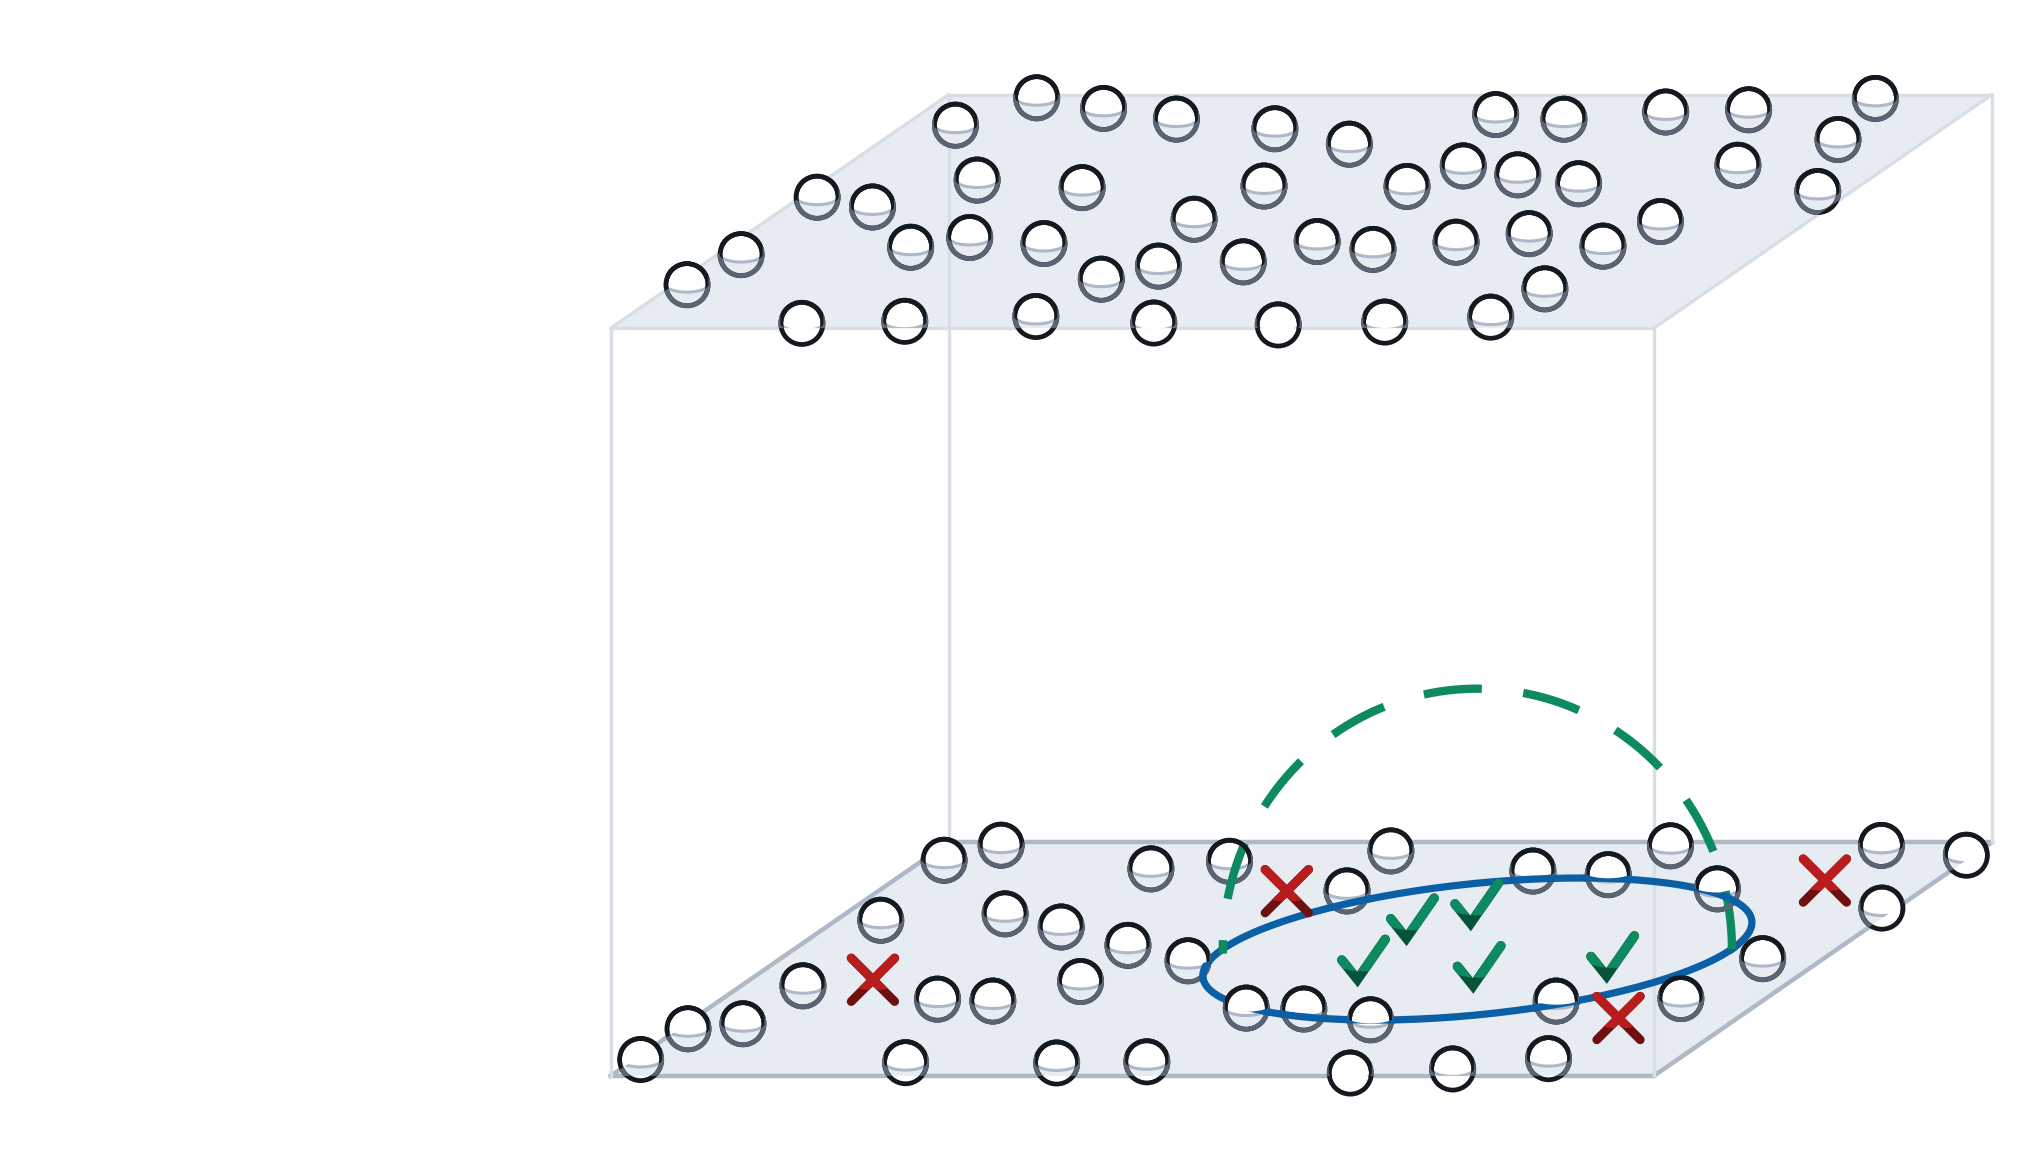
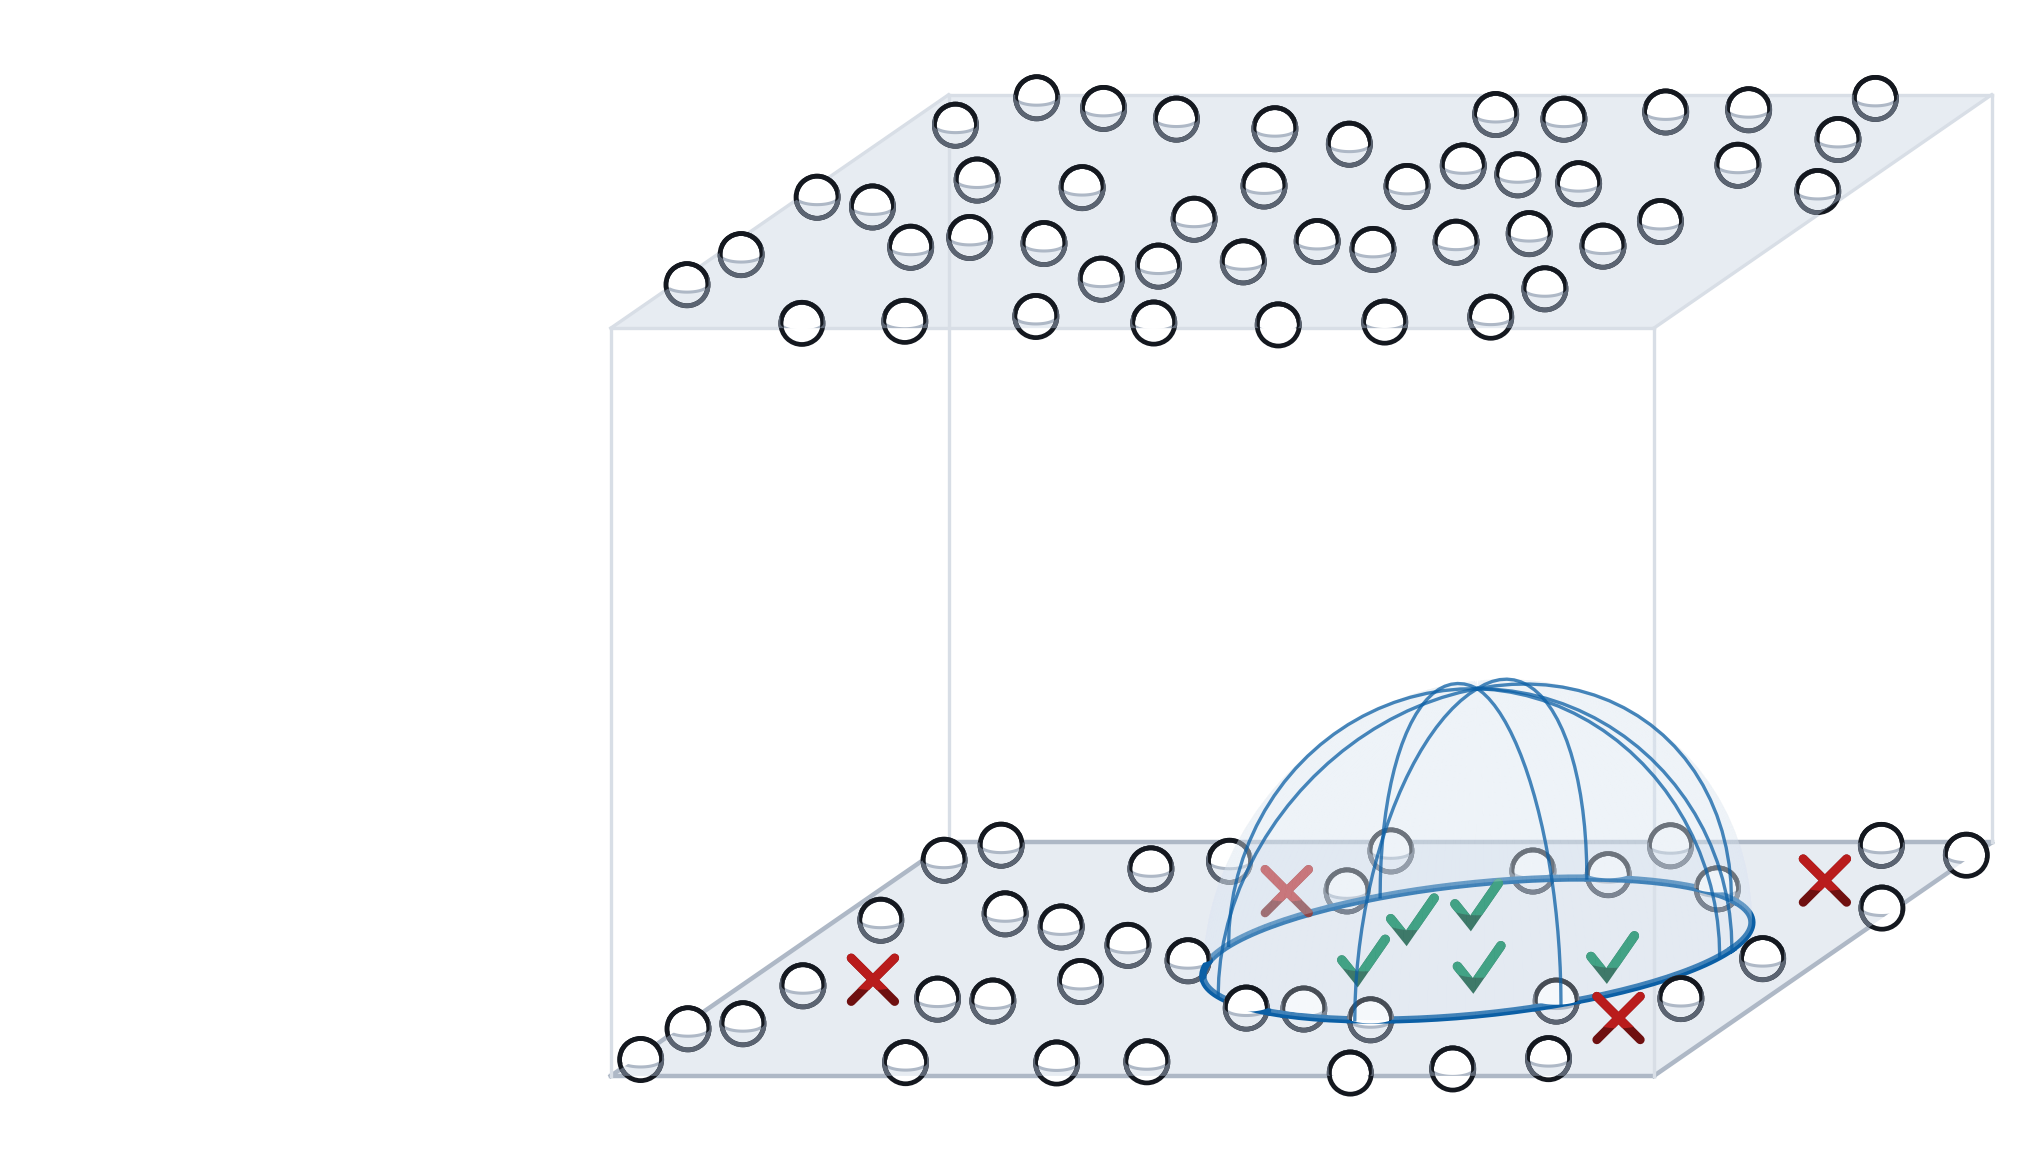
slides: draw the dome as an alternative pillar, and put the plane's markings under everything standing above it
Two things the last pass got wrong, and they turn out to be the same
thing seen from either side of the floor.

The dome was a lone dashed green arc while the tube was glass with ribs,
so the two frames were not comparable — which is the only reason to have
split them. It is now built exactly as `_tube` is: gores instead of wall
quads so near and far surfaces overlap and the compositor does the one-
and two-layer tinting itself, the same BLUE ribs at the same width and
alpha, and an `_occluded_by_dome` ray test beside the pillar's so the
items standing inside it are shaded like the items inside the tube.

And the boundary curve was painted over the bright halves of the vote
glyphs behind the glass — the halves that are *above* the plane. The
curve sat at a z above the behind-the-glass band, which existed to get
the tint right, so everything in that band lost to it: three of the nine
glyphs, and the white caps of the spheres out there too. The fix is to
state the rule from both sides at once. A marking that lies in a plane is
drawn below every item, so every cap and every bright arm covers it, and
then repeated once per band clipped to that band's submerged crescents,
which is the only place it should reappear. Per band rather than once
over everything, because a crescent behind the glass is tinted and the
boundary showing through it has to be tinted with it.

The z layout is bands now, with the arithmetic written down: an item
[…]

Changed region(s): [[0.5856, 0.5783, 0.863, 0.8826]]

diff --git a/slides/figs/src/make-atlas-figs.py b/slides/figs/src/make-atlas-figs.py
@@ -433,9 +433,9 @@ PROJ_X0, PROJ_Y0 = 4.78, 0.58
 PROJ_SCALE = 1.045
 PROJ_U, PROJ_V, PROJ_VY = 0.93, 0.55, 0.38
 #: Where the detector's boundary sits on the floor. The region it admits runs
-#: to the lid and is drawn dashed there, because it does not stop at the lid —
-#: the box stops. A tube with a top on it would say the model had an opinion
-#: about how high is too high, which is the one thing it does not have.
+#: all the way to the lid, because it does not stop at the lid — the box stops.
+#: A tube with a top on it would say the model had an opinion about how high is
+#: too high, which is the one thing it does not have.
 CURVE_U, CURVE_V, CURVE_RU, CURVE_RV = 5.5, 2.5, 2.05, 1.40
 TUBE_H = BOX_H
 #: The second collection lies on the ceiling exactly as the first lies on the
@@ -445,7 +445,8 @@ TUBE_H = BOX_H
 #: than a whole collection the detector has never seen.
 NEW_H = BOX_H
 NEW_SEED = 17
-#: How high the alternative truth stops.
+#: How high the alternative truth stops. Well clear of the ceiling, so the dome
+#: visibly does not reach the collection it is being asked about.
 DOME_H = 1.95
 
 
@@ -540,7 +541,7 @@ def _wireframe(ax: plt.Axes) -> dict[int, plt.Polygon]:
             *zip(corners[a], corners[b]),
             color=CELL_LINE if wide else RULE,
             linewidth=1.6 if wide else 1.2,
-            zorder=1,
+            zorder=Z_WIREFRAME,
         )
     return planes
 
@@ -568,11 +569,50 @@ def _tube(ax: plt.Axes, base: np.ndarray, top: np.ndarray, angles: np.ndarray) -
                 facecolor=INTRO.BAND,
                 edgecolor="none",
                 alpha=PILLAR_ALPHA,
-                zorder=2,
+                zorder=Z_PILLAR,
             )
         )
     for k in range(0, len(angles) - 1, 22):
-        ax.plot(*zip(base[k], top[k]), color=BLUE, linewidth=1.2, alpha=0.75, zorder=3)
+        ax.plot(*zip(base[k], top[k]), color=BLUE, linewidth=1.2, alpha=0.75, zorder=Z_PILLAR + 0.1)
+
+
+def _dome(ax: plt.Axes, angles: np.ndarray) -> None:
+    """The alternative pillar: same footprint, same glass, but it closes.
+
+    Drawn exactly as `_tube` is, and for the same reason — it is the same claim
+    about the same boundary, differing only in whether it has a lid, so a
+    picture that drew it in another hand would be answering a different
+    question. The surface is cut into gores rather than wall quads, one per
+    angle step and each running the whole way up, so the near and far halves
+    overlap in projection and the compositor tints what is behind them once and
+    twice on its own.
+    """
+    meridians = [
+        np.array(
+            [
+                proj(
+                    CURVE_U + CURVE_RU * math.cos(a) * math.cos(t),
+                    CURVE_V + CURVE_RV * math.sin(a) * math.cos(t),
+                    DOME_H * math.sin(t),
+                )
+                for t in np.linspace(0, math.pi / 2, 24)
+            ]
+        )
+        for a in angles
+    ]
+    for i in range(len(angles) - 1):
+        ax.add_patch(
+            plt.Polygon(
+                np.vstack([meridians[i], meridians[i + 1][::-1]]),
+                closed=True,
+                facecolor=INTRO.BAND,
+                edgecolor="none",
+                alpha=PILLAR_ALPHA,
+                zorder=Z_PILLAR,
+            )
+        )
+    for k in range(0, len(angles) - 1, 22):
+        ax.plot(meridians[k][:, 0], meridians[k][:, 1], color=BLUE, linewidth=1.2, alpha=0.75, zorder=Z_PILLAR + 0.1)
 
 
 #: The item radius, on the page.
@@ -784,18 +824,36 @@ def _clear_of_edge(u: float, v: float) -> bool:
     return VOTE_EDGE_MARGIN < u < BOX_U - VOTE_EDGE_MARGIN and VOTE_EDGE_MARGIN < v < BOX_V - VOTE_EDGE_MARGIN
 
 
-#: Where the items sit in the paint order. Anything the pillar stands in front
-#: of is painted *under* it, which is what makes the blue shading right without
-#: computing any of it: each of the pillar's wall quads is half-transparent, a
-#: point inside the pillar is behind one wall, and a point beyond it is behind
-#: two, so the compositor tints them once and twice on its own. The alternative
-#: — drawing everything on top and tinting by hand — was what made the pillar
-#: look like it stood behind every sphere it should have hidden.
-Z_BEHIND_PILLAR, Z_IN_FRONT, Z_CEILING = 1.0, 6.0, 7.0
-#: Above every item, for the second stroke of anything lying in a plane. It
-#: only ever shows through a crescent-shaped clip, so it cannot cover a
-#: sphere's above-water half however high it sits.
-Z_IN_PLANE_OVERLAY = 9.0
+#: The paint order, as bands rather than as numbers. Anything the pillar stands
+#: in front of is painted *under* it, which is what makes the blue shading right
+#: without computing any of it: each of the pillar's wall quads is
+#: half-transparent, a point inside the pillar is behind one wall, and a point
+#: beyond it is behind two, so the compositor tints them once and twice on its
+#: own. The alternative — drawing everything on top and tinting by hand — was
+#: what made the pillar look like it stood behind every sphere it should have
+#: hidden.
+#:
+#: Each band of items is 1.2 wide: `_painted_back_to_front` spends 0.9 of it on
+#: depth and `_item` another 0.3 on one sphere's own fill, waterline and rims.
+#: The `*_OVERLAY` levels sit just above their band and the pillar's glass just
+#: above the first of them, so a behind-the-glass item is tinted from its fill
+#: to its rim and so is the piece of boundary showing through it. Getting that
+#: wrong is not subtle — the widest item's rim used to poke through the glass —
+#: but it is invisible, so the arithmetic is written down rather than eyeballed.
+Z_WIREFRAME = 0.3
+Z_BEHIND_PILLAR, Z_BEHIND_OVERLAY = 1.0, 2.4
+Z_PILLAR = 3.0
+Z_IN_FRONT, Z_FRONT_OVERLAY = 6.0, 7.4
+Z_CEILING, Z_CEILING_OVERLAY = 8.0, 9.4
+#: And under every item, for the first stroke of anything lying in a plane.
+#: Above the plane's own fill and the box's edges, below the glass — so the far
+#: half of the pillar's foot, which is genuinely seen through the near wall,
+#: takes the wall's tint without anything being computed for it.
+Z_IN_PLANE = 0.6
+
+#: One band's submerged regions and the level a marking lying in their plane has
+#: to be repeated at to show through them.
+Layer = tuple[list[np.ndarray], float]
 
 
 def _occluded_by_pillar(u: float, v: float, h: float) -> bool:
@@ -825,6 +883,24 @@ def _occluded_by_pillar(u: float, v: float, h: float) -> bool:
     )
 
 
+def _occluded_by_dome(u: float, v: float) -> bool:
+    """Whether the dome stands between this floor item and the eye.
+
+    Same walk as `_occluded_by_pillar`, against the half-ellipsoid instead of
+    the cylinder — so an item inside the footprint is behind the near surface,
+    an item just beyond it may be behind both, and one in front of it is behind
+    neither. No height window is needed: the dome closes, so leaving through the
+    top is leaving through the dome.
+    """
+    toward = np.array([PROJ_V / PROJ_U, -1.0, PROJ_VY])
+    du, dv = (u - CURVE_U) / CURVE_RU, (v - CURVE_V) / CURVE_RV
+    au, av, ah = toward[0] / CURVE_RU, toward[1] / CURVE_RV, toward[2] / DOME_H
+    a = au * au + av * av + ah * ah
+    b = 2 * (du * au + dv * av)
+    disc = b * b - 4 * a * (du * du + dv * dv - 1.0)
+    return disc >= 0 and (-b + math.sqrt(disc)) / (2 * a) > 1e-9
+
+
 def _painted_back_to_front(points: np.ndarray, base_z: float) -> list[tuple[int, float]]:
     """Item indices in paint order, far first, with the z-order each gets.
 
@@ -836,15 +912,17 @@ def _painted_back_to_front(points: np.ndarray, base_z: float) -> list[tuple[int,
     return [(i, base_z + 0.9 * k / max(len(order) - 1, 1)) for k, i in enumerate(order)]
 
 
-def _floor_items(ax: plt.Axes, floor: np.ndarray, plane: plt.Polygon, pillar: bool) -> list[np.ndarray]:
+def _floor_items(ax: plt.Axes, floor: np.ndarray, plane: plt.Polygon, behind: set[int]) -> list[Layer]:
     """The corpus the votes came from, lying in the floor of the room.
 
-    Returns each sphere's submerged region, grown by `CLIP_PAD`: anything lying
-    *in* the floor has to be drawn over it, rim included.
+    Returns the submerged regions, grown by `CLIP_PAD`, split into the two
+    bands: anything lying *in* the floor has to be drawn over them, rim
+    included, and a piece of boundary showing through a sphere that stands
+    behind the glass has to be drawn *under* the glass or it comes out brighter
+    than the sphere around it.
     """
     voted = _votes(floor)
-    behind = {i for i, (u, v) in enumerate(floor) if _occluded_by_pillar(u, v, 0.0)} if pillar else set()
-    crescents: list[np.ndarray] = []
+    crescents: dict[bool, list[np.ndarray]] = {True: [], False: []}
     for index, depth_z in _painted_back_to_front(floor, 0.0):
         u, v = floor[index]
         point = proj(u, v, 0.0)
@@ -856,11 +934,11 @@ def _floor_items(ax: plt.Axes, floor: np.ndarray, plane: plt.Polygon, pillar: bo
         else:
             crescent = _item(ax, point, zorder, plane)
             if crescent is not None:
-                crescents.append(crescent)
-    return crescents
+                crescents[index in behind].append(crescent)
+    return [(crescents[True], Z_BEHIND_OVERLAY), (crescents[False], Z_FRONT_OVERLAY)]
 
 
-def _draw_in_plane(ax: plt.Axes, xy: np.ndarray, crescents: list[np.ndarray], **style) -> None:
+def _draw_in_plane(ax: plt.Axes, xy: np.ndarray, layers: list[Layer], **style) -> None:
     """Draw a curve that lies *in* a plane, over the spheres' submerged halves.
 
     A sphere's crescent is the part of it under the plane, so anything painted
@@ -868,33 +946,28 @@ def _draw_in_plane(ax: plt.Axes, xy: np.ndarray, crescents: list[np.ndarray], **
     every crescent it meets says the opposite: that the crescents are sitting on
     the plane rather than cut into it.
 
-    So the curve goes down twice. Once where it belongs in the paint order, and
-    once above everything clipped to the union of the crescents, which is the
-    only place the second copy can show.
+    But the plane is also what everything standing *in* it rises out of, so the
+    same curve has to pass behind every part of every item that is above the
+    waterline: a sphere's white cap, and the bright half of a vote mark. Those
+    two rules are the same rule stated from either side of the surface, and the
+    way to satisfy both is to draw the curve under all of it and then put it
+    back exactly where the plane is what you are looking at.
+
+    So the base stroke goes below every item, and one clipped copy per band goes
+    just above that band, clipped to the union of its crescents — which is the
+    only place a copy can show. Per band rather than once over everything,
+    because a crescent behind the pillar's glass is tinted and the boundary
+    showing through it has to be tinted with it.
     """
-    ax.plot(xy[:, 0], xy[:, 1], **style)
-    if not crescents:
-        return
-    over = ax.plot(xy[:, 0], xy[:, 1], **{**style, "zorder": Z_IN_PLANE_OVERLAY})[0]
-    over.set_clip_path(
-        MplPath.make_compound_path(*(MplPath(np.vstack([c, c[:1]]), closed=True) for c in crescents)),
-        ax.transData,
-    )
-
-
-def _dome_zorder(floor: np.ndarray) -> float:
-    """Where the dome's profile falls in the floor's own paint order.
-
-    The arc is drawn at a single `v`, so it lies in one plane parallel to the
-    page and a single z is exactly right for all of it — but which z is not a
-    free choice. Items nearer the eye than that plane have to cover it and
-    items behind it have to be covered, or the dome reads as a decal on the
-    floor rather than a surface rising off it. `_painted_back_to_front` lays the
-    floor out far-to-near over a 0.9-wide band, so the dome's place in that band
-    is just the share of items standing behind it.
-    """
-    behind = float(np.mean(floor[:, 1] > CURVE_V))
-    return Z_IN_FRONT + 0.9 * behind
+    ax.plot(xy[:, 0], xy[:, 1], **{**style, "zorder": Z_IN_PLANE})
+    for crescents, zorder in layers:
+        if not crescents:
+            continue
+        over = ax.plot(xy[:, 0], xy[:, 1], **{**style, "zorder": zorder})[0]
+        over.set_clip_path(
+            MplPath.make_compound_path(*(MplPath(np.vstack([c, c[:1]]), closed=True) for c in crescents)),
+            ax.transData,
+        )
 
 
 def _depth_stage(stage: int) -> plt.Figure:
@@ -905,23 +978,25 @@ def _depth_stage(stage: int) -> plt.Figure:
     curve = np.stack([CURVE_U + CURVE_RU * np.cos(angles), CURVE_V + CURVE_RV * np.sin(angles)], axis=1)
     base = np.array([proj(u, v, 0.0) for u, v in curve])
     floor = _spaced(46, (EDGE_MARGIN, BOX_U - EDGE_MARGIN), (EDGE_MARGIN, BOX_V - EDGE_MARGIN), ITEM_GAP)
+    if stage == 4:
+        behind = {i for i, (u, v) in enumerate(floor) if _occluded_by_dome(u, v)}
+    elif stage == 5:
+        behind = {i for i, (u, v) in enumerate(floor) if _occluded_by_pillar(u, v, 0.0)}
+    else:
+        behind = set()
 
     # The floor goes down first, because what lies *in* the floor has to be
     # drawn over its spheres' submerged halves and needs their outlines to do
     # it. Call order is not paint order — every artist here carries a z.
-    crescents = _floor_items(ax, floor, planes[0], pillar=stage == 5)
+    crescents = _floor_items(ax, floor, planes[0], behind)
 
-    if stage == 4:
-        # What the room is implicitly assumed to look like: same footprint, and
-        # it closes. Nothing is drawn through here, so the arc takes its depth
-        # from the floor rather than from any glass in front of it.
-        dome = np.array([proj(CURVE_U + CURVE_RU * math.cos(a), CURVE_V, DOME_H * math.sin(a)) for a in angles[:91]])
-        ax.plot(dome[:, 0], dome[:, 1], color=GREEN, linewidth=3.0, linestyle=(0, (7, 5)), zorder=_dome_zorder(floor))
     top = np.array([proj(u, v, TUBE_H) for u, v in curve])
+    if stage == 4:
+        _dome(ax, angles)
     if stage == 5:
         _tube(ax, base, top, angles)
     if stage >= 2:
-        _draw_in_plane(ax, base, crescents, color=BLUE, linewidth=2.6, zorder=5)
+        _draw_in_plane(ax, base, crescents, color=BLUE, linewidth=2.6)
 
     lids: list[np.ndarray] = []
     if stage >= 3:
@@ -933,7 +1008,7 @@ def _depth_stage(stage: int) -> plt.Figure:
             if crescent is not None:
                 lids.append(crescent)
     if stage == 5:
-        _draw_in_plane(ax, top, lids, color=BLUE, linewidth=2.6, zorder=4)
+        _draw_in_plane(ax, top, [(lids, Z_CEILING_OVERLAY)], color=BLUE, linewidth=2.6)
 
     return fig
 
@@ -949,10 +1024,13 @@ def depth_fig() -> None:
     same picture and a page holding both asks the room to compare rather than
     to be surprised.
 
-    The dashed dome goes first: the concept stops, which is what anybody
-    drawing a boundary through a corpus assumes without saying so. The tube
-    goes second, because it is the one nobody pictures and it is the one that
-    ships. That cut has no lid: the shipped head is a single `Linear(D, 1)` and
+    The dome goes first: the concept stops, which is what anybody drawing a
+    boundary through a corpus assumes without saying so. It is built out of the
+    same glass as the tube and drawn in the same hand, because it is the same
+    claim about the same boundary and only the lid is at issue; a dome sketched
+    in another colour or another dash would be answering a different question.
+    The tube goes second, because it is the one nobody pictures and it is the
+    one that ships. That cut has no lid: the shipped head is a `Linear(D, 1)` and
     a linear score is *exactly* constant along every direction its weight
     vector does not point in (`vtscore/training/mlp.py`, the `LINEAR_SVM_HEAD`
     sentinel). So the boundary extrudes, and the new collection is *sorted* by
